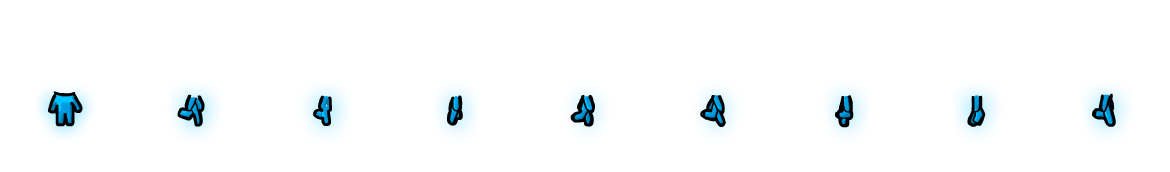
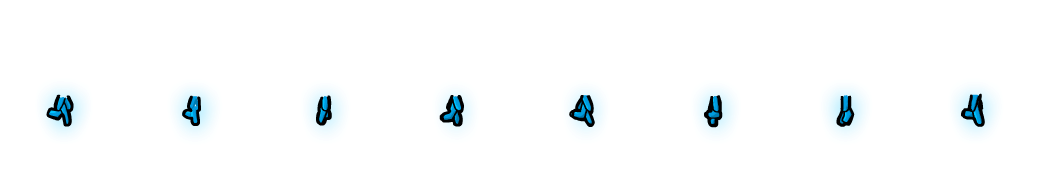
امعظم الانيميشن المهم

diff --git a/Animations.cpp b/Animations.cpp
@@ -66,6 +66,16 @@ void UpdateAnimation(Sprite& sprite, LoadTexture texture) {
 	case GROUND:
 		sprite.setTextureRect(IntRect(8 * 32, 0, 32, 32));
 		break;
+	case diamonds_texture:
+	{
+		int frameCount = 4;// 1 fire , 2 hald fire half water, 3 white , 4 water
+		int width =468, height = 117;
+		int index = (int)(globalClock.getElapsedTime().asSeconds() * speed) % frameCount;
+		sprite.setTextureRect(IntRect(index * (width / frameCount), 0, (width / frameCount), height));
+		break;
+	}
+
+	// char animations
 	case death_smoke_texture: {
 
 		int frameCount = 45;
@@ -73,64 +83,206 @@ void UpdateAnimation(Sprite& sprite, LoadTexture texture) {
 		sprite.setTextureRect(IntRect(index * 102, 0, 102, 107));
 		break;
 	}
-	case diamonds_texture:
-		break;
+
 	case fire_glow_texture:
 		break;
+	case water_glow_texture:
+		break;
+
 	case fire_head_jumping_texture:
-		break;
-	case fire_head_rising_texture:
-		break;
-	case fire_ice_steps_texture:
-		break;
-	case fire_idle_body_texture:
-		sprite.setTextureRect(IntRect(0, 0, 32, 32));
-		break;
-	case fire_idle_head_texture:{
-		
+	{
+		int frameCount = 11;
+		int width = 1716, height = 130;
+		int index = (int)(globalClock.getElapsedTime().asSeconds() * speed) % frameCount;
+		sprite.setTextureRect(IntRect(index * (width / frameCount), 0, (width / frameCount), height));
 		break;
 	}
+	case fire_head_rising_texture:
+	{
+		int frameCount = 5;
+		int width = 530, height = 130;
+		int index = (int)(globalClock.getElapsedTime().asSeconds() * speed) % frameCount;
+		sprite.setTextureRect(IntRect(index * (width/frameCount), 0, (width / frameCount), height));
+		break;
+	}
+	case fire_head_falling_texture:
+	{
+		int frameCount = 5;
+		int width =650, height = 162;
+		int index = (int)(globalClock.getElapsedTime().asSeconds() * speed) % frameCount;
+		sprite.setTextureRect(IntRect(index * (width / frameCount), 0, (width / frameCount), height));
+		break;
+	}
+
+	case water_head_jump_texture:
+	{
+		int frameCount = 11;
+		int width = 1914, height =142 ;
+		int index = (int)(globalClock.getElapsedTime().asSeconds() * speed) % frameCount;
+		sprite.setTextureRect(IntRect(index * (width / frameCount), 0, (width / frameCount), height));
+		break;
+	}
+	case water_head_rising_texture:
+	{
+		int frameCount = 11;
+		int width =1452, height = 143;
+		int index = (int)(globalClock.getElapsedTime().asSeconds() * speed) % frameCount;
+		sprite.setTextureRect(IntRect(index * (width / frameCount), 0, (width / frameCount), height));
+		break;
+	}
+	case water_head_falling_texture:
+	{
+		int frameCount = 11;
+		int width = 1430, height = 204;
+		int index = (int)(globalClock.getElapsedTime().asSeconds() * speed) % frameCount;
+		sprite.setTextureRect(IntRect(index * (width / frameCount), 0, (width / frameCount), height));
+		break;
+	}
+
+
+
+
+	case fire_ice_steps_texture:
+		{
+		int frameCount = 3;
+		int width = 216, height = 88;
+		int index = (int)(globalClock.getElapsedTime().asSeconds() * speed) % frameCount;
+		sprite.setTextureRect(IntRect(index * (width / frameCount), 0, (width / frameCount), height));
+		break;
+	}
+	case water_ice_steps_texture:
+	{
+		int frameCount = 3;
+		int width =198, height = 110;
+		int index = (int)(globalClock.getElapsedTime().asSeconds() * speed) % frameCount;
+		sprite.setTextureRect(IntRect(index * (width / frameCount), 0, (width / frameCount), height));
+		break;
+	}
+
+
+	case fire_idle_body_texture:
+		break;
+	case water_body_idle_texture:
+		break;
+
+	case fire_idle_head_texture:
+	{
+		int frameCount = 19;
+		int width = 2470, height = 162;
+		int index = (int)(globalClock.getElapsedTime().asSeconds() * speed) % frameCount;
+		sprite.setTextureRect(IntRect(index * (width / frameCount), 0, (width / frameCount), height));
+		break;
+	}
+	case water_head_idle_texture:
+	{
+		int frameCount = 30;
+		int width = 3900, height = 162;
+		int index = (int)(globalClock.getElapsedTime().asSeconds() * speed) % frameCount;
+		sprite.setTextureRect(IntRect(index * (width / frameCount), 0, (width / frameCount), height));
+		break;
+	}
+
+
 	case fire_running_texture: {
 		int frameCount = 8;
 		int index = (int)(globalClock.getElapsedTime().asSeconds() * speed) % frameCount;
 		sprite.setTextureRect(IntRect(index * 130, 0, 130, 172));
 		break;
 	}
-	case fire_stairs_texture:
-		break;
-	case fire_head_falling_texture:
-		break;
-	case water_body_idle_texture:
-		break;
-	case water_glow_texture:
-		break;
-	case water_head_falling_texture:
-		break;
-	case water_head_idle_texture:
-		break;
-	case water_head_jump_texture:
-		break;
-	case water_head_rising_texture:
-		break;
-	case water_ice_steps_texture:
-		break;
 	case water_running_texture:
+	{
+		int frameCount = 8;
+		int width =1040, height = 172;
+		int index = (int)(globalClock.getElapsedTime().asSeconds() * speed) % frameCount;
+		sprite.setTextureRect(IntRect(index * (width / frameCount), 0, (width / frameCount), height));
 		break;
+	}
+
+	case fire_stairs_texture:
+	{
+		int frameCount = 30;
+		int width =2130, height = 103;
+		int index = (int)(globalClock.getElapsedTime().asSeconds() * speed) % frameCount;
+		sprite.setTextureRect(IntRect(index * (width / frameCount), 0, (width / frameCount), height));
+		break;
+	}
 	case water_stairs_texture:
+	{
+		int frameCount = 30;
+		int width =2100, height = 103;
+		int index = (int)(globalClock.getElapsedTime().asSeconds() * speed) % frameCount;
+		sprite.setTextureRect(IntRect(index * (width / frameCount), 0, (width / frameCount), height));
 		break;
+	}
 	
+
+	// map objects animations
+
 	case pusher_block_texture:
+	{
+		sprite.setTexture(pusher_block);
 		break;
+	}
+
 	case fire_door_open_texture:
+	{
+		int frameCount = 22;
+		int width =3586, height = 138;
+		int index = (int)(globalClock.getElapsedTime().asSeconds() * speed) % frameCount;
+		sprite.setTextureRect(IntRect(index * (width / frameCount), 0, (width / frameCount), height));
 		break;
+	}
 	case water_door_open_texture:
+	{
+		int frameCount = 22;
+		int width =3586, height = 138;
+		int index = (int)(globalClock.getElapsedTime().asSeconds() * speed) % frameCount;
+		sprite.setTextureRect(IntRect(index * (width / frameCount), 0, (width / frameCount), height));
 		break;
-	case fire_pond_texture:
+	}
+
+	case fire_pond_texture: {
+		int frameCount = 15;
+		int index = (int)(globalClock.getElapsedTime().asSeconds() * speed) % frameCount;
+		sprite.setTextureRect(IntRect(index * 50, 0, 50, 50));
+	}
+	case fire_pond_right_texture: {
+		int frameCount = 15;
+		int index = (int)(globalClock.getElapsedTime().asSeconds() * speed) % frameCount;
+		sprite.setTextureRect(IntRect(index * 50, 0, 50, 44));
 		break;
-	case fire_pond_right_texture:
-		break;
+	}
 	case fire_pond_left_texture:
+	{
+		int frameCount = 15;
+		int index = (int)(globalClock.getElapsedTime().asSeconds() * speed) % frameCount;
+		sprite.setTextureRect(IntRect(index * 50, 0, 50, 42));
 		break;
+	}
+
+	case water_pond_texture:
+	{
+		int frameCount = 15;
+		int index = (int)(globalClock.getElapsedTime().asSeconds() * speed) % frameCount;
+		sprite.setTextureRect(IntRect(index * 46, 0, 46, 47));
+		break;
+	}
+	case water_pond_right_texture:
+	{
+		int frameCount = 15;
+		int index = (int)(globalClock.getElapsedTime().asSeconds() * speed) % frameCount;
+		sprite.setTextureRect(IntRect(index * 46, 0, 46, 47));
+		break;
+	}
+	case water_pond_left_texture:
+	{
+		int frameCount = 15;
+		int index = (int)(globalClock.getElapsedTime().asSeconds() * speed) % frameCount;
+		sprite.setTextureRect(IntRect(index * 46, 0, 46, 47));
+		break;
+	}
+
+
 	case lever_stick_texture:
 		break;
 	case bar_texture:
@@ -140,12 +292,6 @@ void UpdateAnimation(Sprite& sprite, LoadTexture texture) {
 	case bar_cap_left_texture:
 		break;
 	case ramp_1_texture:
-		break;
-	case water_pond_right_texture:
-		break;
-	case water_pond_texture:
-		break;
-	case water_pond_left_texture:
 		break;
 	case slider_dot_texture:
 		break;
@@ -164,7 +310,7 @@ void UpdateAnimation(Sprite& sprite, LoadTexture texture) {
 	case Diamond2_texture:
 		break;
 	case Diamond3_texture:
-		break;
+		break;	
 	case DiamondDark0_texture:
 		break;
 	case DiamondDark1_texture:

diff --git a/Testing.cpp b/Testing.cpp
@@ -1,6 +1,6 @@
 
 // TESTING
-
+Sprite testSprite;
 // test
 
 
@@ -13,18 +13,29 @@ void InitializeTest() {
 	// test push
 }
 
-void HandleTestInput(Event event) {
+void HandleTestInput(Event event)
+{
+
 
 }
 
 void OnUpdatedGameStateTest() {
 
+
 }
 
-void UpdateTest() {
+void UpdateTest()
+{
+	ApplyTexture(testSprite, LoadTexture::lever_stick_texture, Vector2f(100.0f, 100.0f));
+	UpdateAnimation(testSprite, LoadTexture::lever_stick_texture);
+	testSprite.setPosition(400.0f, 200.0f);
+
 
 }
 
 void DrawTest() {
+	// for example test if a sound function is working here
+	// PlayMusic(BackgroundMusic::MainMenu);
+	window.draw(testSprite);
 
 }